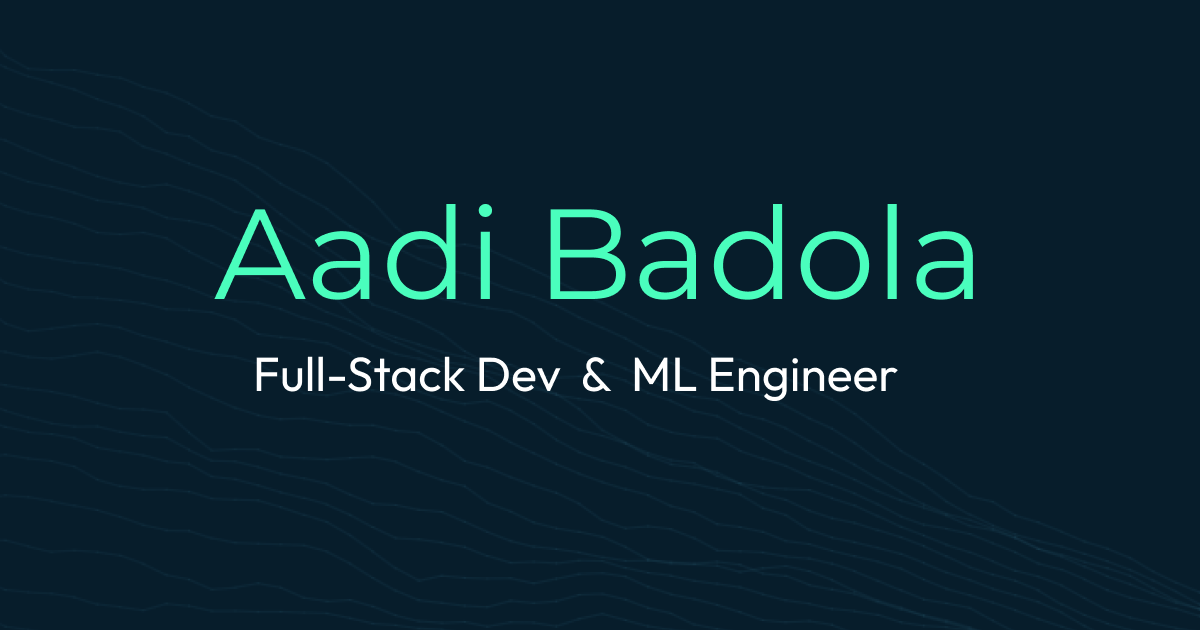
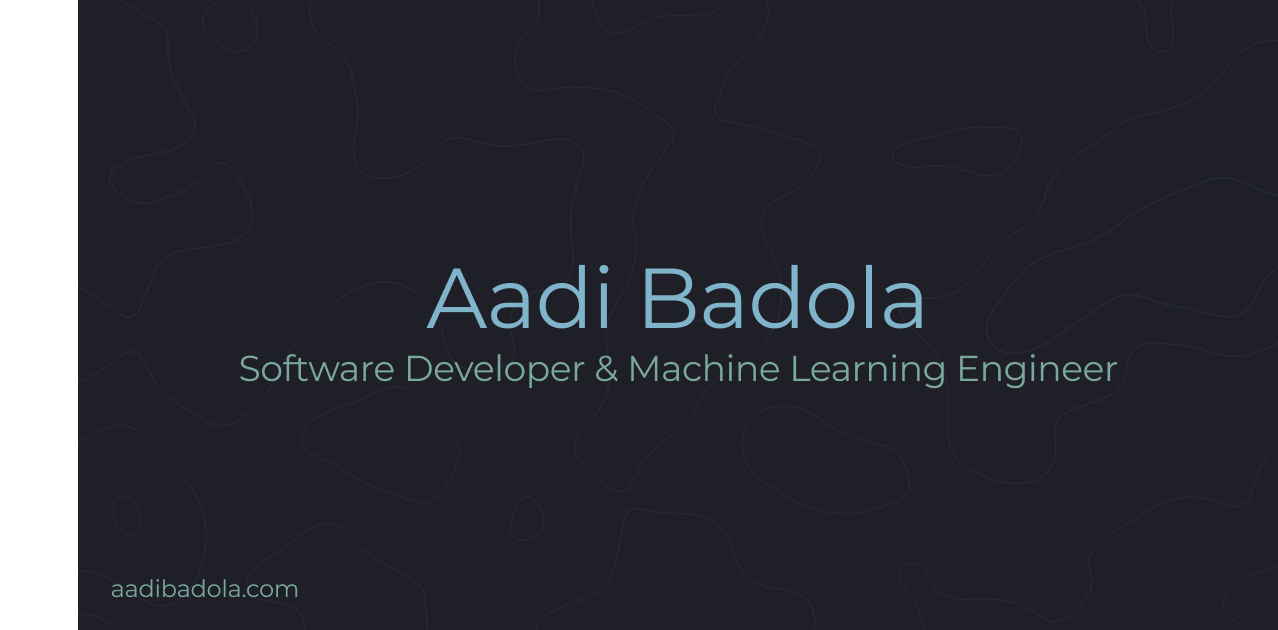
feat: update blog post to support thumbnail image

diff --git a/src/blog/lib/posts.ts b/src/blog/lib/posts.ts
@@ -4,6 +4,7 @@ export interface PostFrontmatter {
     title: string;
     date: string;
     description?: string;
+    image?: string;
     tags?: string[];
     draft?: boolean;
 }

diff --git a/src/blog/posts/lists-and-list-functions.md b/src/blog/posts/lists-and-list-functions.md
@@ -2,6 +2,7 @@
 title: "Lists and List Functions, from various Categorical perspectives"
 date: "2026-07-09"
 description: "A categorical survey of Cons-Lists and the list functions which emerge from various categorical constructions"
+image: "/assets/img/thumbnails/lists-and-list-functions.png"
 tags: ["category theory", "functional programming"]
 ---
 
